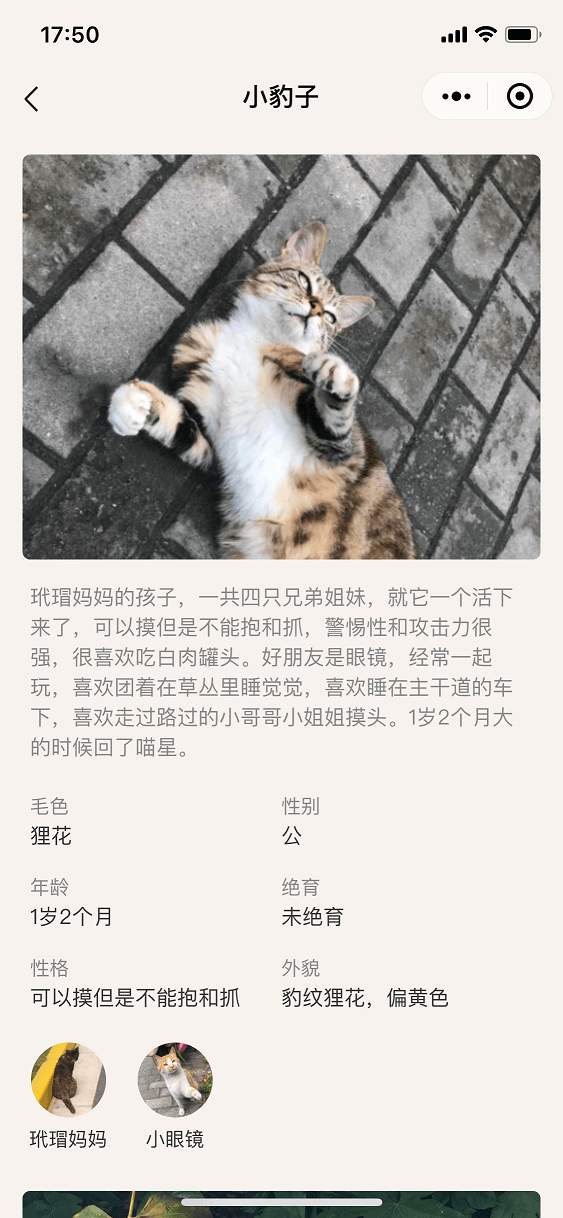
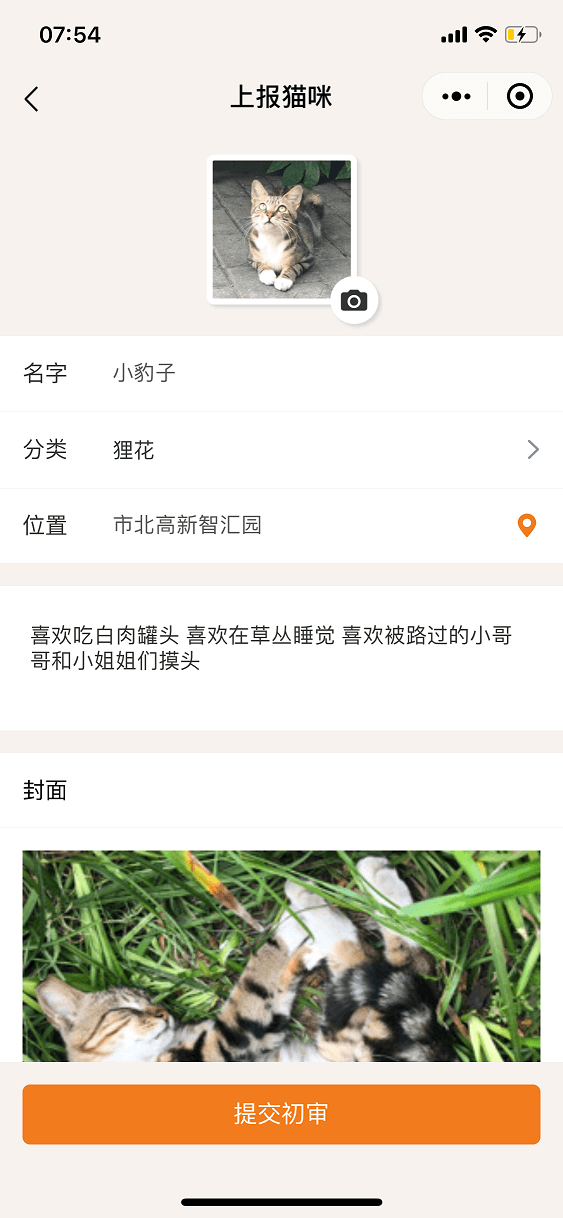
补充文档

diff --git a/code-of-conduct.md b/code-of-conduct.md
@@ -15,6 +15,10 @@ cloudfunctions                             // 云开发目录
     │   │
     │   ├── cats-service.js                // 猫咪相关接口
     │   │
+    │   ├── posts-service.js               // 上报相关接口
+    │   │
+    │   ├── security-service.js            // 内容安全相关接口
+    │   │
     │   └── users-service.js               // 用户相关接口
     │
     ├── config.json                        // 云函数配置
@@ -53,6 +57,14 @@ src
 │   │  │
 │   │  └── index.ts
 │   │
+│   ├── posts                              // 上报相关接口
+│   │  │
+│   │  └── index.ts
+│   │
+│   ├── security                           // 内容安全相关接口
+│   │  │
+│   │  └── index.ts
+│   │
 │   ├── users                              // 用户相关接口
 │   │  │
 │   │  └── index.ts
@@ -71,6 +83,10 @@ src
 │   │  │
 │   │  └── article-view.vue                // 文章组件
 │   │
+│   ├── attribute-modal
+│   │  │
+│   │  └── attribute-modal.vue             // 添加属性组件
+│   │
 │   ├── cat-item
 │   │  │
 │   │  └── cat-item.vue                    // 猫咪卡片组件
@@ -78,6 +94,14 @@ src
 │   ├── cat-list
 │   │  │
 │   │  └── cat-list.vue                    // 猫咪列表组件
+│   │
+│   ├── check-item
+│   │  │
+│   │  └── check-item.vue                  // 审核列表项组件
+│   │
+│   ├── image-cropper
+│   │  │
+│   │  └── image-cropper.vue               // 图片裁剪组件
 │   │
 │   ├── loading
 │   │  │
@@ -95,6 +119,14 @@ src
 │   │  │
 │   │  └── page-status.vue                 // 页面状态组件
 │   │
+│   ├── post-item
+│   │  │
+│   │  └── post-item.vue                   // 上报列表项组件
+│   │
+│   ├── relations-modal
+│   │  │
+│   │  └── relations-modal.vue             // 关系选择模态框组件
+│   │
 │   └── tab-bar
 │      │
 │      └── tab-bar.vue                     // 头部tab-bar组件
@@ -109,13 +141,25 @@ src
 │   │  │
 │   │  └── about.vue                       // 关于页面
 │   │
-│   ├── detail
+│   ├── add-cat
 │   │  │
-│   │  └── detail.vue                      // 猫咪详情
+│   │  └── add-cat.vue                     // 上报猫咪页面
+│   │
+│   ├── cats-check
+│   │  │
+│   │  └── cats-check.vue                  // 猫咪审核列表页面
 │   │
 │   ├── cats-manage
 │   │  │
-│   │  └── cats-manage.vue                 // 我的上报管理页面（猫咪管理）
+│   │  └── cats-manage.vue                 // 我的上报页面
+│   │
+│   ├── check-detail
+│   │  │
+│   │  └── check-detail.vue                // 审核详细页面
+│   │
+│   ├── detail
+│   │  │
+│   │  └── detail.vue                      // 猫咪详情
 │   │
 │   ├── home
 │   │  │
@@ -130,6 +174,8 @@ src
 │      └── science.vue                     // 科普页面
 │
 ├── plugins                                // 第三方库都放到这里(按名称区分)
+│   │
+│   ├── colorui                            // ColorUI 组件库
 │   │
 │   ├── iconfont                           // 阿里巴巴矢量图标
 │   │

diff --git a/README.md b/README.md
@@ -8,6 +8,10 @@
 
 * [jin-yufeng/Parser](https://github.com/jin-yufeng/Parser)
 
+* [weilanwl/ColorUI](https://github.com/weilanwl/ColorUI)
+
+* [iconfont](https://www.iconfont.cn/)
+
 ## 效果截图
 
 <!-- ![](./doc/images/1.png)
@@ -16,7 +20,17 @@
 
 ![](./doc/images/3.png)
 
-![](./doc/images/4.png) -->
+![](./doc/images/4.png)
+
+![](./doc/images/5.png)
+
+![](./doc/images/6.png)
+
+![](./doc/images/7.png)
+
+![](./doc/images/8.png)
+
+![](./doc/images/9.png) -->
 
 <img src="./doc/images/1.png" width="400px"/>
 
@@ -25,6 +39,16 @@
 <img src="./doc/images/3.png" width="400px"/>
 
 <img src="./doc/images/4.png" width="400px"/>
+
+<img src="./doc/images/5.png" width="400px"/>
+
+<img src="./doc/images/6.png" width="400px"/>
+
+<img src="./doc/images/7.png" width="400px"/>
+
+<img src="./doc/images/8.png" width="400px"/>
+
+<img src="./doc/images/9.png" width="400px"/>
 
 ## 线上版本
 
@@ -40,12 +64,12 @@
 
 ## 部署教程
 
-点击 [deployment.md](https://github.com/zhiiee/cats/blob/master/deployment.md) 查看部署教程
+点击 [deployment.md](./deployment.md) 查看部署教程
 
 ## 贡献指南
 
-如果有兴趣一起参与开发和维护本项目可以点击 [contributing.md](https://github.com/zhiiee/cats/blob/master/contributing.md) 查看贡献指南
+如果有兴趣一起参与开发和维护本项目可以点击 [contributing.md](./contributing.md) 查看贡献指南
 
 ## 开源许可
 
-《流浪猫速查手册》的源代码基于 `GPL-3.0` 协议全网开源，可用于商业用途，如果您使用了《流浪猫速查手册》的源代码，那么您的项目必须遵守 `GPL-3.0` 协议进行全网开源，点击 [LICENSE](https://github.com/zhiiee/cats/blob/master/LICENSE) 查看许可协议
+《流浪猫速查手册》的源代码基于 `GPL-3.0` 协议全网开源，可用于商业用途，如果您使用了《流浪猫速查手册》的源代码，那么您的项目必须遵守 `GPL-3.0` 协议进行全网开源，点击 [LICENSE](./LICENSE) 查看许可协议

diff --git a/deployment.md b/deployment.md
@@ -1,6 +1,6 @@
 # 部署说明
 
-本项目后端完全采用微信小程序云开发实现，需先开通微信小程序云开发后才可以使用，小程序云开发的介绍以及开通请参考[官方文档](https://developers.weixin.qq.com/miniprogram/dev/wxcloud/basis/getting-started.html)
+本项目前端使用 `uni-app` 开发， 后端完全采用 `微信小程序云开发` 实现，需先开通微信小程序云开发后才可以使用，小程序云开发的介绍以及开通请参考[官方文档](https://developers.weixin.qq.com/miniprogram/dev/wxcloud/basis/getting-started.html)
 
 ## 下载代码
 
@@ -53,14 +53,16 @@ npm run build:mp-weixin
 
 4. 云函数部署完成后，点击 `微信开发者工具` 中的 `编译` 按钮，进行 `云函数` 的初次调用（这时云函数会自动初始化云数据库集合）
 
-## 设置云函数的内存配置
+## 设置云函数的配置
 
 本项目只用一个 `云函数` 完成所有接口，为了发挥 `云函数` 的最大性能，建议将内存设置到最大，设置步骤：
 ```
-云开发控制台 -> 云函数 -> 云函数列表 -> 版本管理 -> 配置 -> 内存配置
+云开发控制台 -> 云函数 -> 云函数列表 -> 版本管理 -> 配置
 ```
 
-修改为最大：1536MB
+内存配置修改为最大：1536MB
+
+超时时间修改为最大：60秒
 
 ## 云开发权限设置
 
@@ -93,4 +95,8 @@ Tips: 为方便本项目的跨平台性，建议将云开发环境的 `未登录
 
 ## 初始化数据
 
-将 `init` 文件夹内的 `articles.json`[文章]和 `categories.json`[分类] 两个文件导入到对应的 `数据库集合` 集合中即可
+将 `init` 文件夹内的 `articles.json`[文章]和 `categories.json`[分类] 两个文件导入到对应的 `数据库集合` 集合中
+
+## 设置超级管理员
+
+在 `users` 表中根据自己的 `openid` 找到自己对应的记录 修改 `isAdmin` 字段值为 `true` 修改 `level` 字段值为 `3`

diff --git a/changelog.md b/changelog.md
@@ -11,3 +11,11 @@
 版本号：[1.0.1](https://github.com/zhiiee/cats/tree/feature/1.0.1)
 
 > 重构 1.0.0 版本代码开源发布
+
+## 2020年09月20日
+
+版本号：[2.0.0](https://github.com/zhiiee/cats/tree/feature/2.0.0)
+
+> 新增流浪猫上报功能
+
+> 新增流浪猫信息审核功能

diff --git a/contributing.md b/contributing.md
@@ -4,7 +4,7 @@
 
 ## 目录规范
 
-源码的目录规范请参考 [源码目录介绍](https://github.com/zhiiee/cats/blob/master/code-of-conduct.md)
+源码的目录规范请参考 [源码目录介绍](./code-of-conduct.md)
 
 ## 代码检查
 
